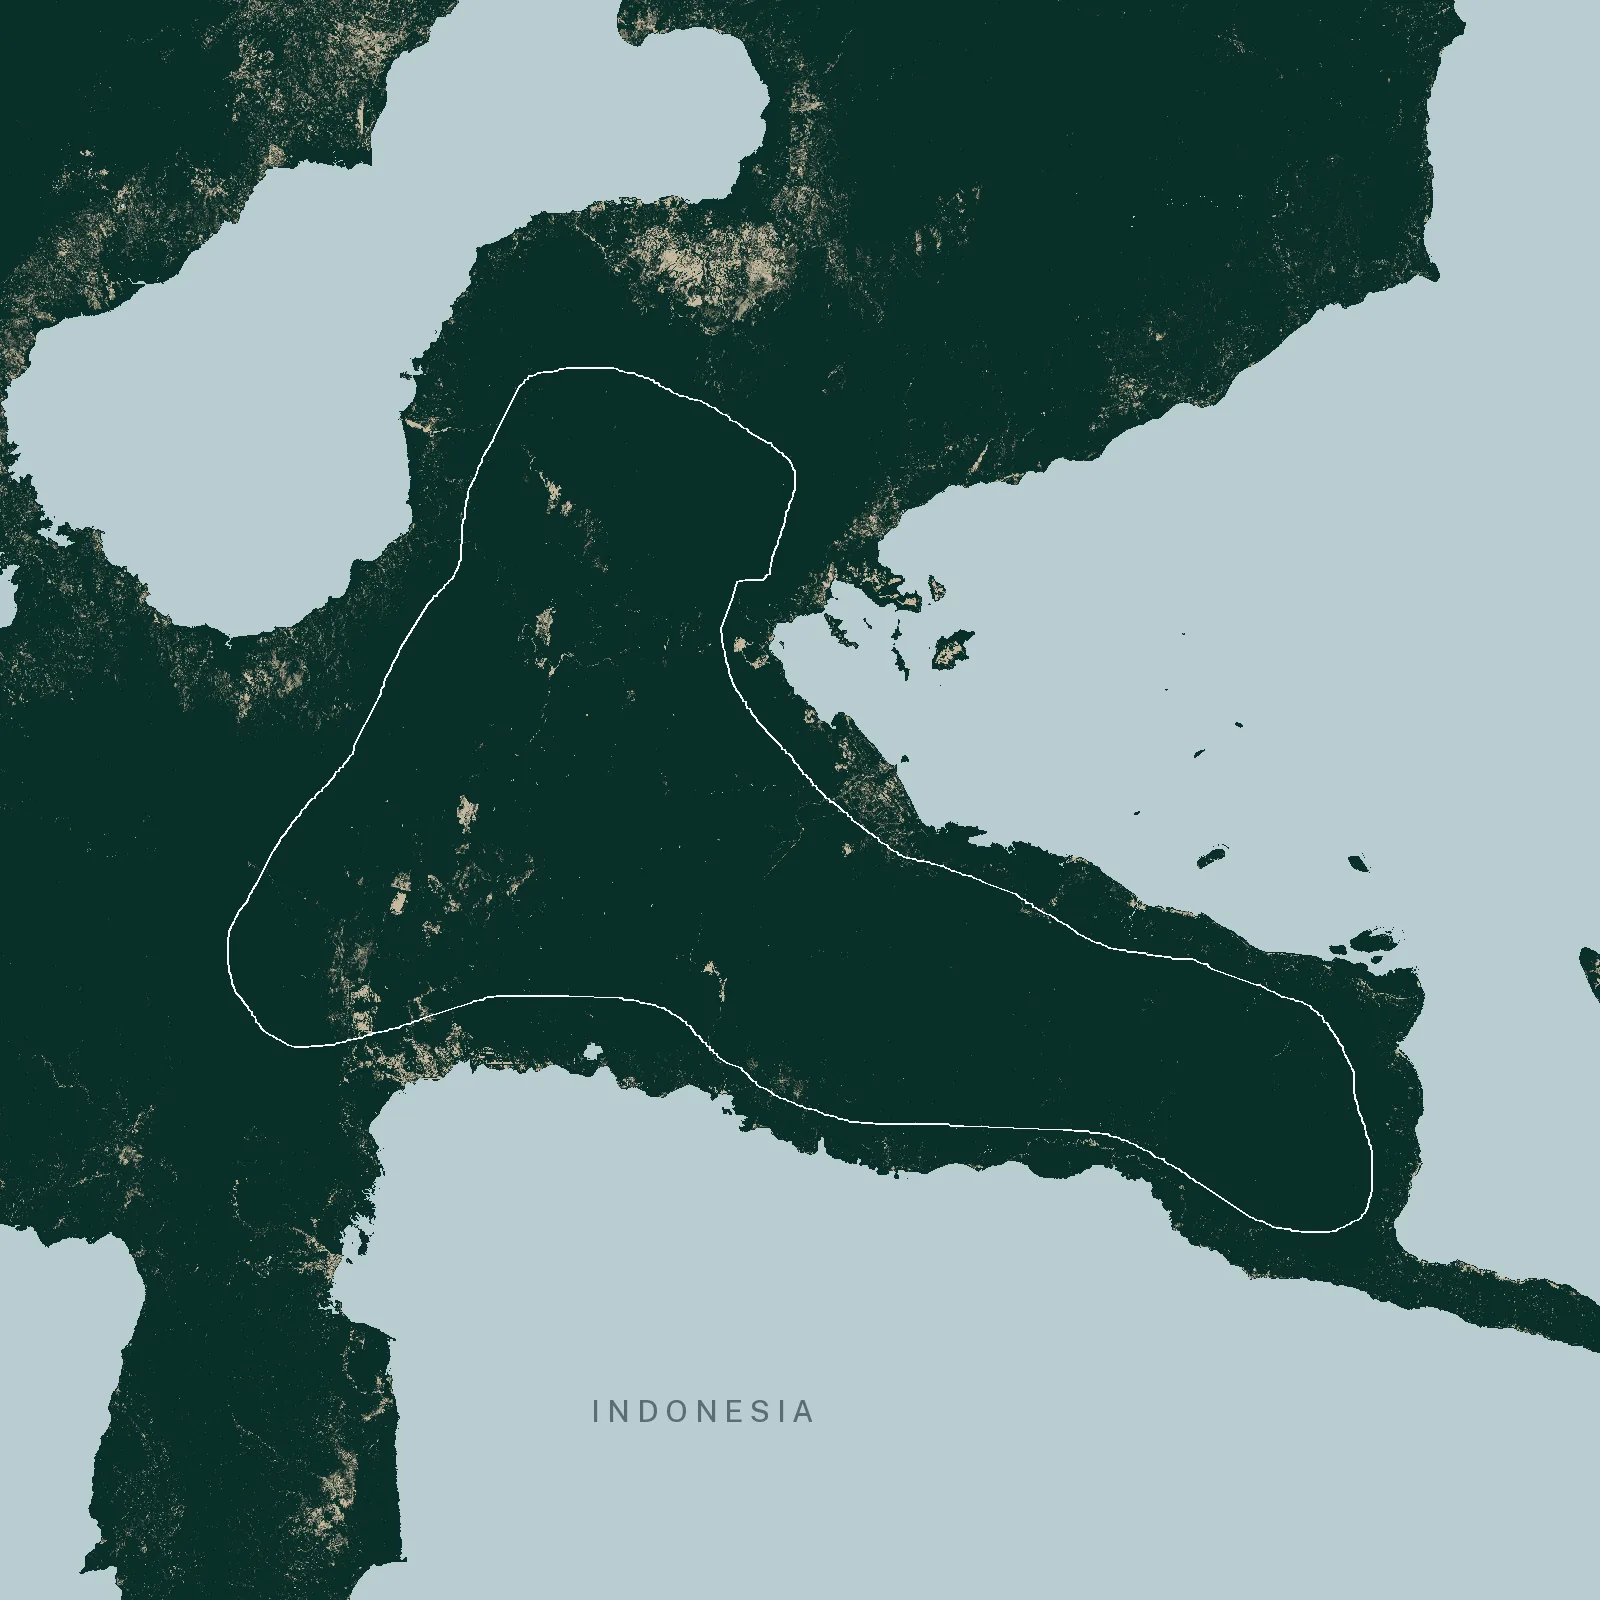
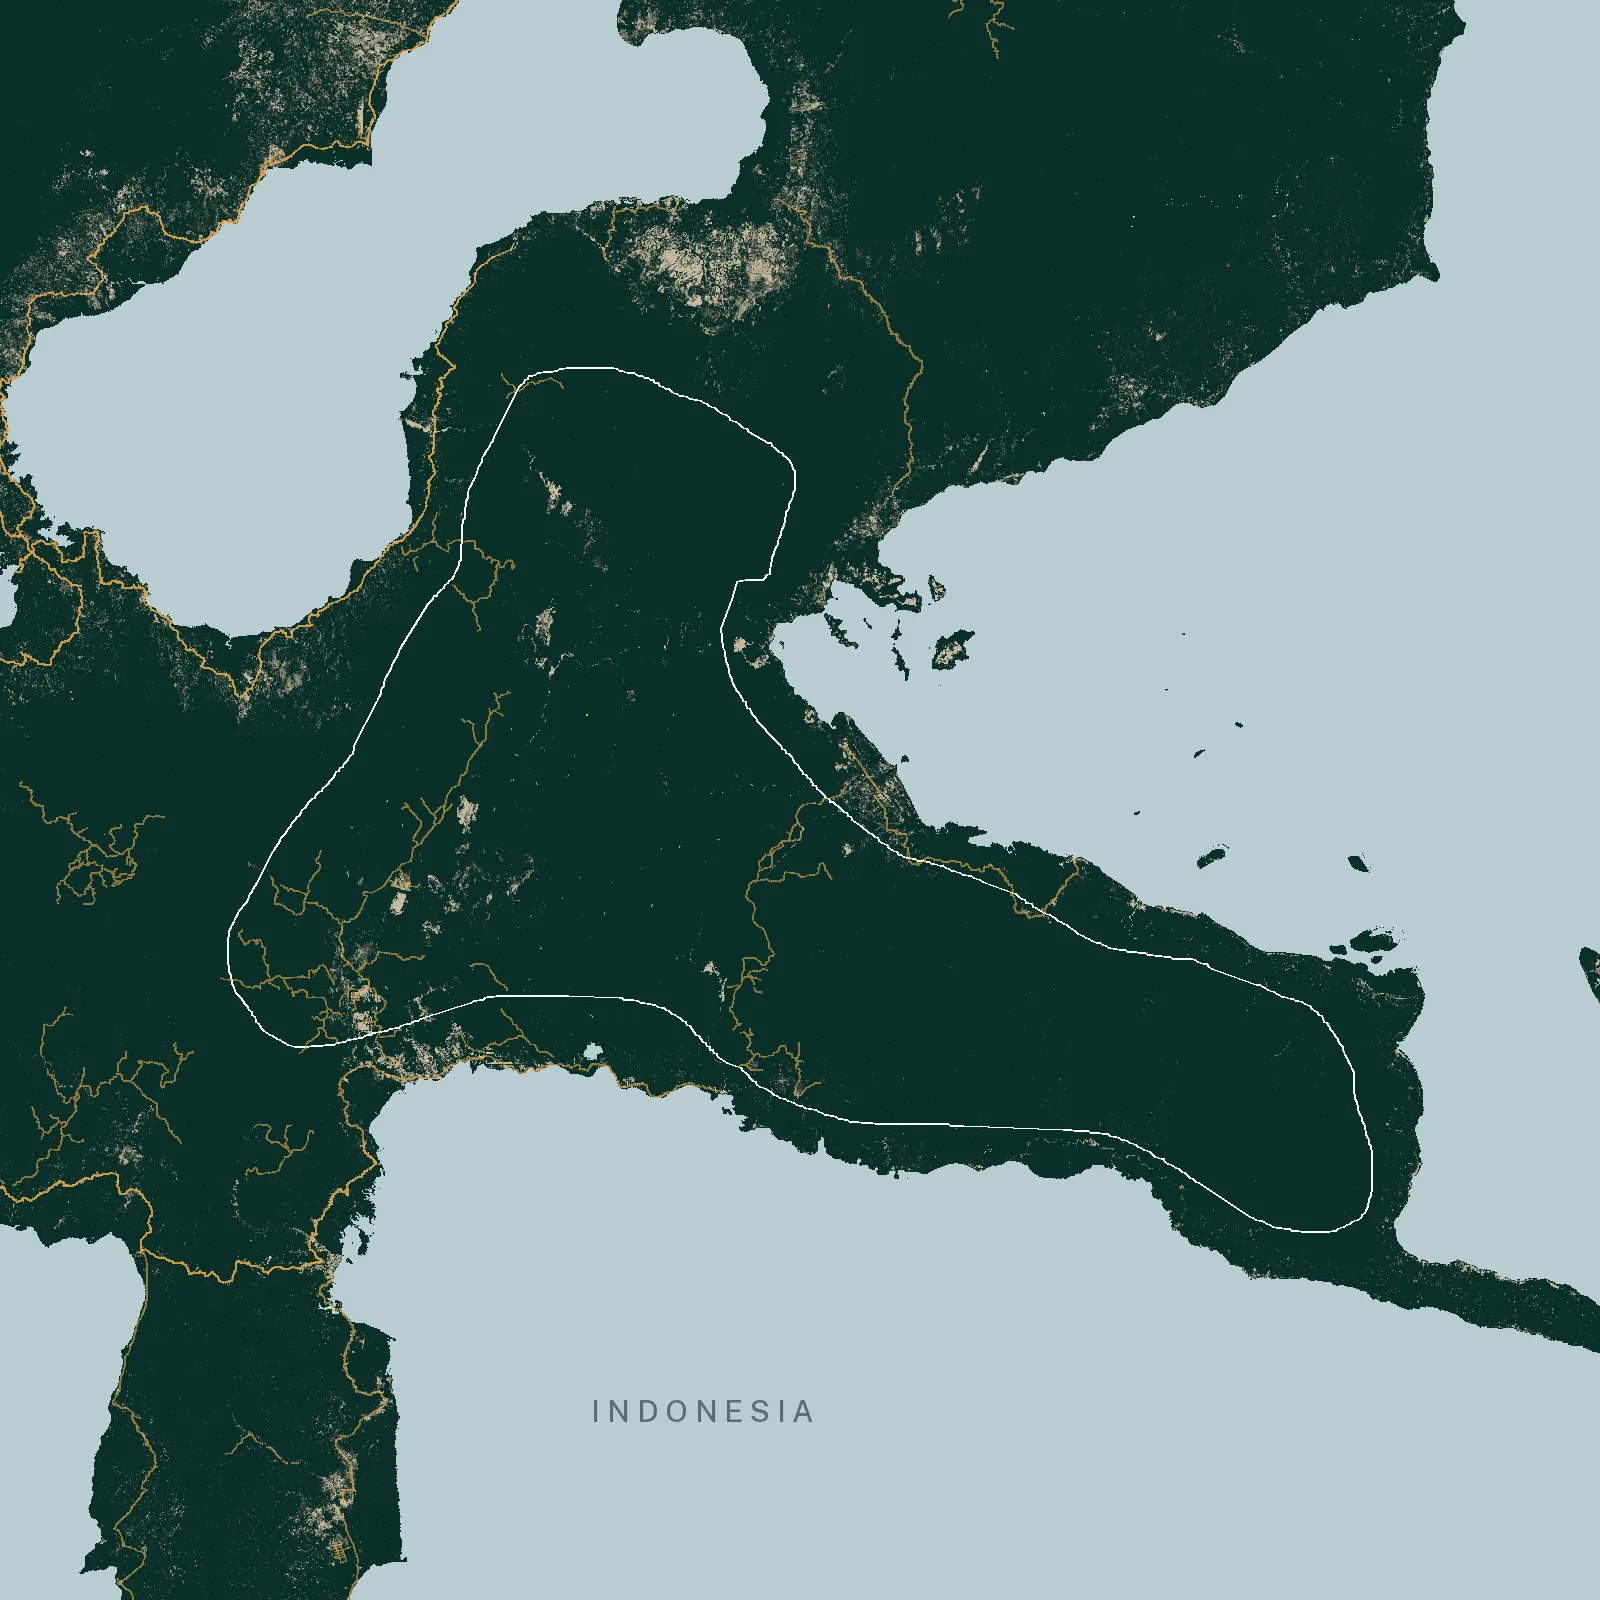
Put roads on the two closing maps
From GRIP4, the global road network compiled from OpenStreetMap and
national sources, which was already on disk. Drawn in orange under the
boundary and the country names, so the reader can see where access
reaches into the forest: on Halmahera the roads run down both coasts and
push into the O' Hongana Manyawa outline from the west and south, and the
cleared patches sit at their ends.

One thing the data would have misrepresented. GRIP ranks the two halves
of New Guinea differently — Papua New Guinea has 10,700km of primary and
secondary road against West Papua's 1,200, while both have about 21,000km
of tertiary. Drawing the main network alone would have shown a web across
PNG and an empty Indonesian half, in a chapter whose text is mostly about
West Papua's logging, oil palm and mining roads. Both panels therefore
draw down to tertiary, and the wide one at half the line weight, since
33,000 features at 21 degrees across blot into a smear otherwise.

diff --git a/src/config.js b/src/config.js
@@ -160,7 +160,8 @@ export default {
       + 'Forest cover and loss are from the Global Forest Change dataset v1.13 '
       + '(Hansen et al., University of Maryland), covering 2000 to 2025 and accessed through '
       + 'Google Earth Engine and Global Nature Watch. Shaded relief on the world '
-      + 'map is from the GEBCO 2024 Grid.',
+      + 'map is from the GEBCO 2024 Grid, and roads on the Halmahera and New Guinea '
+      + 'maps from the GRIP4 global roads database (OpenStreetMap and national sources).',
   },
  
   chapters: [
@@ -690,11 +691,11 @@ export default {
       type: 'stage',
       stage: 'WatchArea',
       panel: '/panels/halmahera_extent.webp',
-      panelAlt: 'Satellite-derived map of forest remaining in 2025 on Halmahera, Indonesia, with the mapped extent of lands used by O\u2019 Hongana Manyawa people outlined',
+      panelAlt: 'Satellite-derived map of forest remaining in 2025 on Halmahera, Indonesia, with roads marked and the mapped extent of lands used by O\u2019 Hongana Manyawa people outlined',
       // box, locator and scale come from render_panels_watch.py
       scale: { n: 20, kmFrac: 0.1504, miFrac: 0.242 },
       locator: [128.17051, 0.63895],
-      caption: 'Forest remaining in 2025. The outline is Survival International\u2019s approximation of the lands used by O\u2019 Hongana Manyawa. For security reasons, map is deliberately rough.',
+      caption: 'Forest remaining in 2025, with the road network in orange. The outline is Survival International\u2019s approximation of the lands used by O\u2019 Hongana Manyawa. For security reasons, map is deliberately rough.',
       title: 'The O\u2019 Hongana Manyawa in Halmahera',
       description: "<p>Lands used by uncontacted O\u2019 Hongana Manyawa people in Indonesia\u2019s Halmahera Island overlap with the Aketajawe-Lolobata National Park. However, voluntarily isolated members of the tribe use much more land, and mapping efforts by various groups of their territory are underway.</p><p>According to an approximate map by human rights organization Survival International, a wave of mining concessions, many for nickel, impact forests uncontacted O\u2019 Hongana Manyawa people depend on for food and survival.</p><p>The Jakarta declaration, which calls on governments to protect the lands and rights of uncontacted peoples worldwide, was drafted in Indonesia in a bid to strengthen the global alliance for the protection of uncontacted peoples and the inclusion of tribes in Indonesia.</p><p>For the safety of the isolated members of the group, Mongabay will not publish the most up-to-date map of lands the O\u2019 Hongana Manyawa people use.</p><p>\u201CThis map is very helpful in showing the existence of the O\u2019 Hongana Manyawa Indigenous Community \u2026 but does not yet cover the entire O\u2019 Hongana Manyawa Indigenous territory. The work to document the existence of O\u2019 Hongana Manyawa and its Indigenous territory is not yet complete, and it will continue,\u201D said Yoga Kipli, directorate of community support and former head of participatory mapping for the Indigenous Peoples\u2019 Alliance of the Archipelago (AMAN).</p>",
     },
@@ -705,10 +706,10 @@ export default {
       type: 'stage',
       stage: 'WatchArea',
       panel: '/panels/new_guinea_extent.webp',
-      panelAlt: 'Satellite-derived map of forest remaining in 2025 across New Guinea, with the border between Indonesia and Papua New Guinea marked',
+      panelAlt: 'Satellite-derived map of forest remaining in 2025 across New Guinea, with roads marked and the border between Indonesia and Papua New Guinea shown',
       scale: { n: 400, kmFrac: 0.1719, miFrac: 0.2767 },
       locator: [140.5, -5.5],
-      caption: 'Forest remaining in 2025 across New Guinea.',
+      caption: 'Forest remaining in 2025 across New Guinea, with the road network in orange.',
       title: 'Isolated tribes in New Guinea',
       description: "<p>Mongabay could not include any lands in New Guinea, which includes the Indonesian half of West Papua and the country of Papua New Guinea, in its assessment due to lack of accurate data, mapping sources and the safety of isolated tribes.</p><p>In West Papua, there are currently between two and 10 \u201Ctruly uncontacted tribal groups\u201D in the rainforests, said Dorince Mehue, an AMAN campaigner for the Papua region.</p><p>Calculating the number of tribes living in voluntary isolation in West Papua is challenging due to geographic difficulties, restricted access for journalists and international humanitarian organizations and surrounding communities deliberately withholding information on isolated tribes to protect them from exploitation or external threats.</p><p>The primary forests they depend on face multiple threats. This threatens the survival and culture of uncontacted tribes in West Papua, according to Mehue.</p><p>\u201CThey face the expansion of extractive industries,\u201D she told Mongabay. \u201COf hundreds of thousands of hectares of customary forests turned into monopolistic oil palm plantations and agribusiness projects. Nickel mining activities on small islands such as Gag Island in Raja Ampat, as well as commercial logging, are clearing primary forests.\u201D</p><p>The ongoing armed conflict, security forces and armed civilian groups have forced thousands of residents of remote villages to flee into the forest, Mehue said.</p>",
     },
